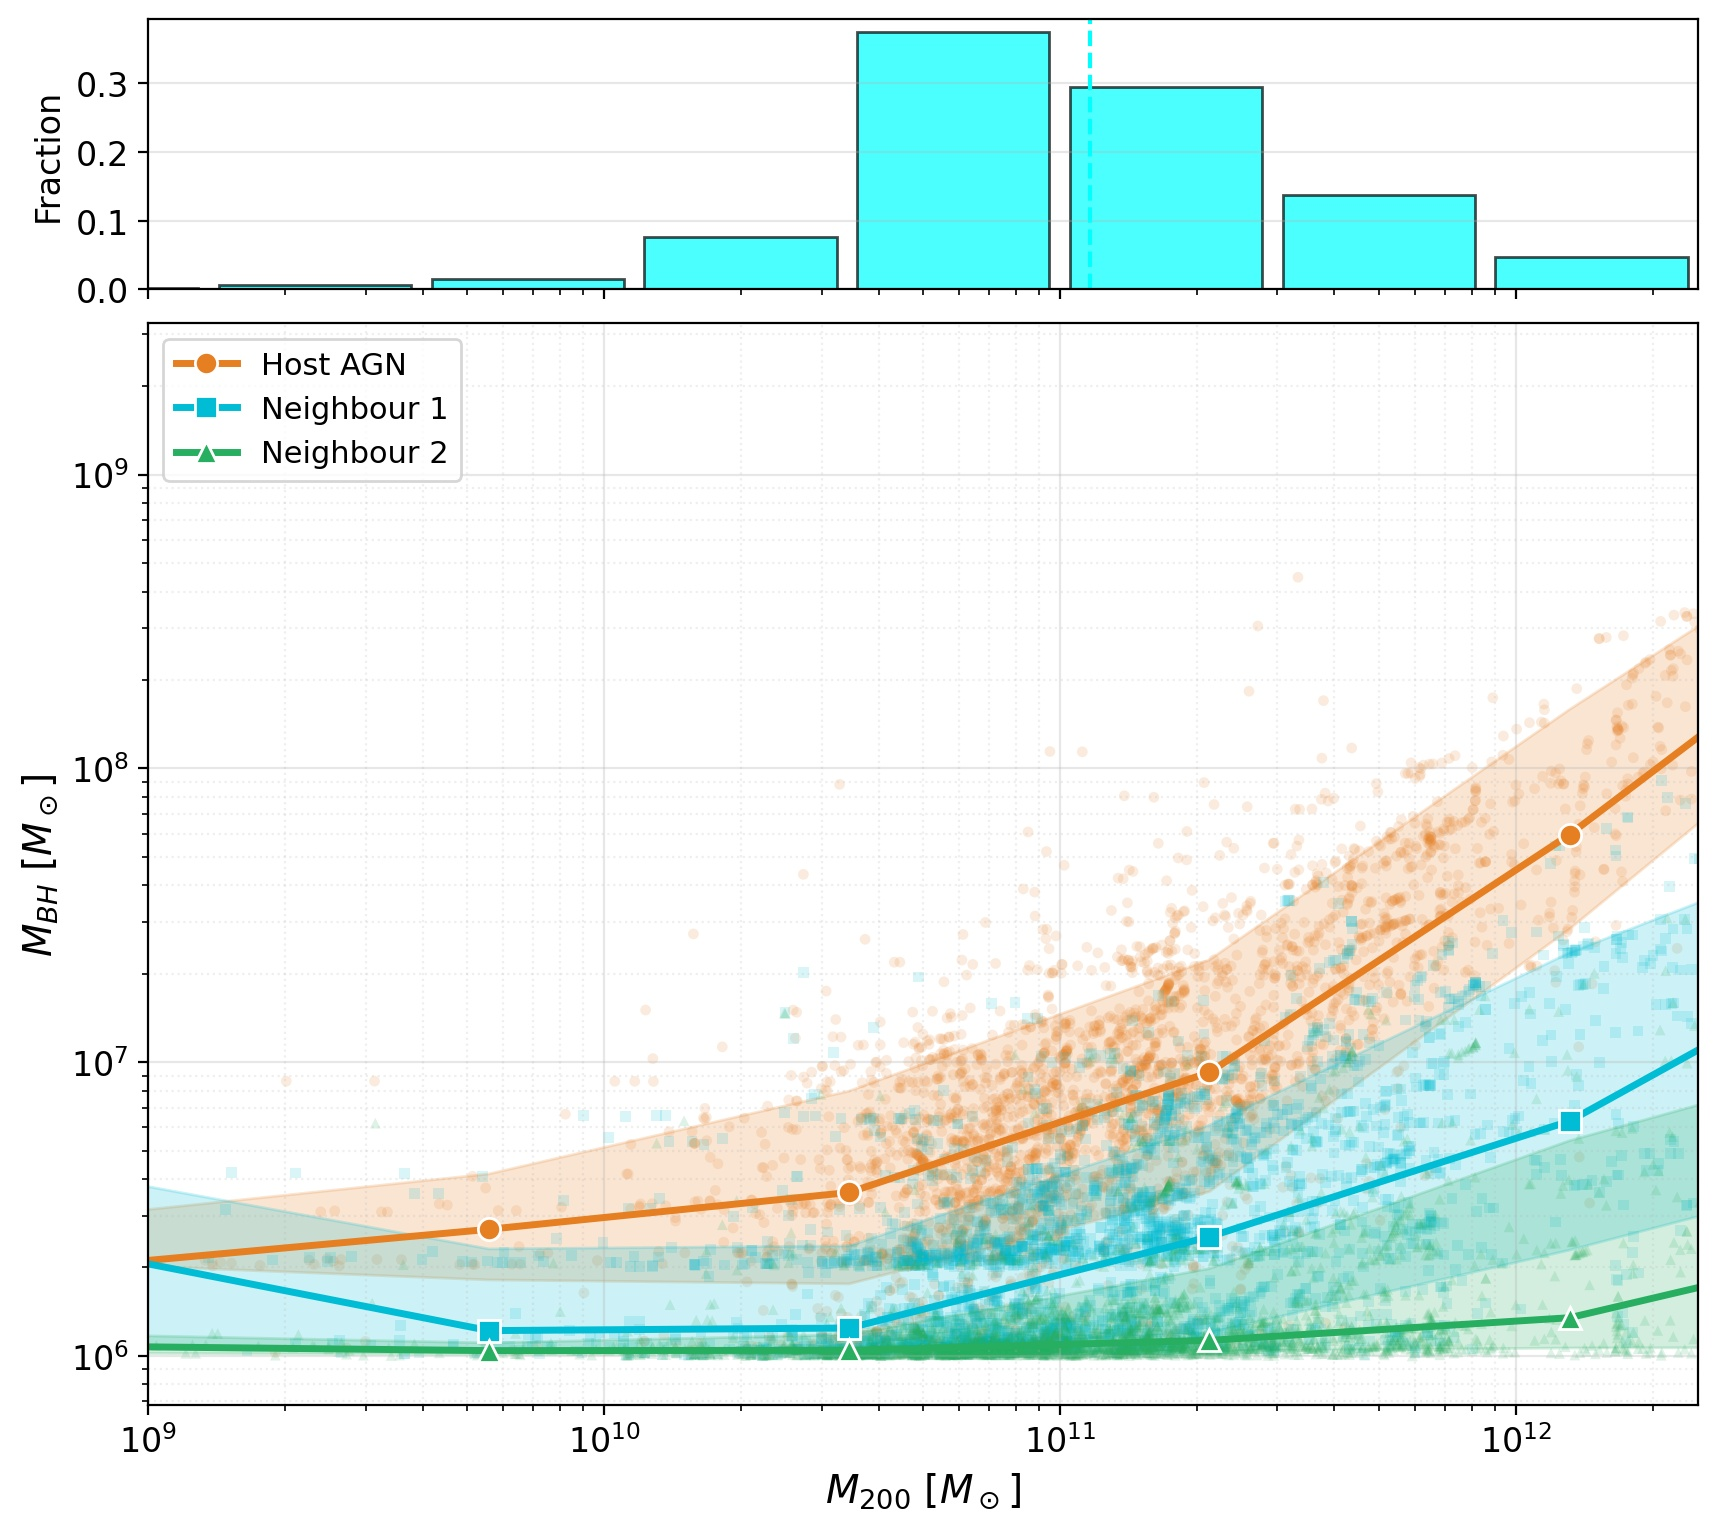
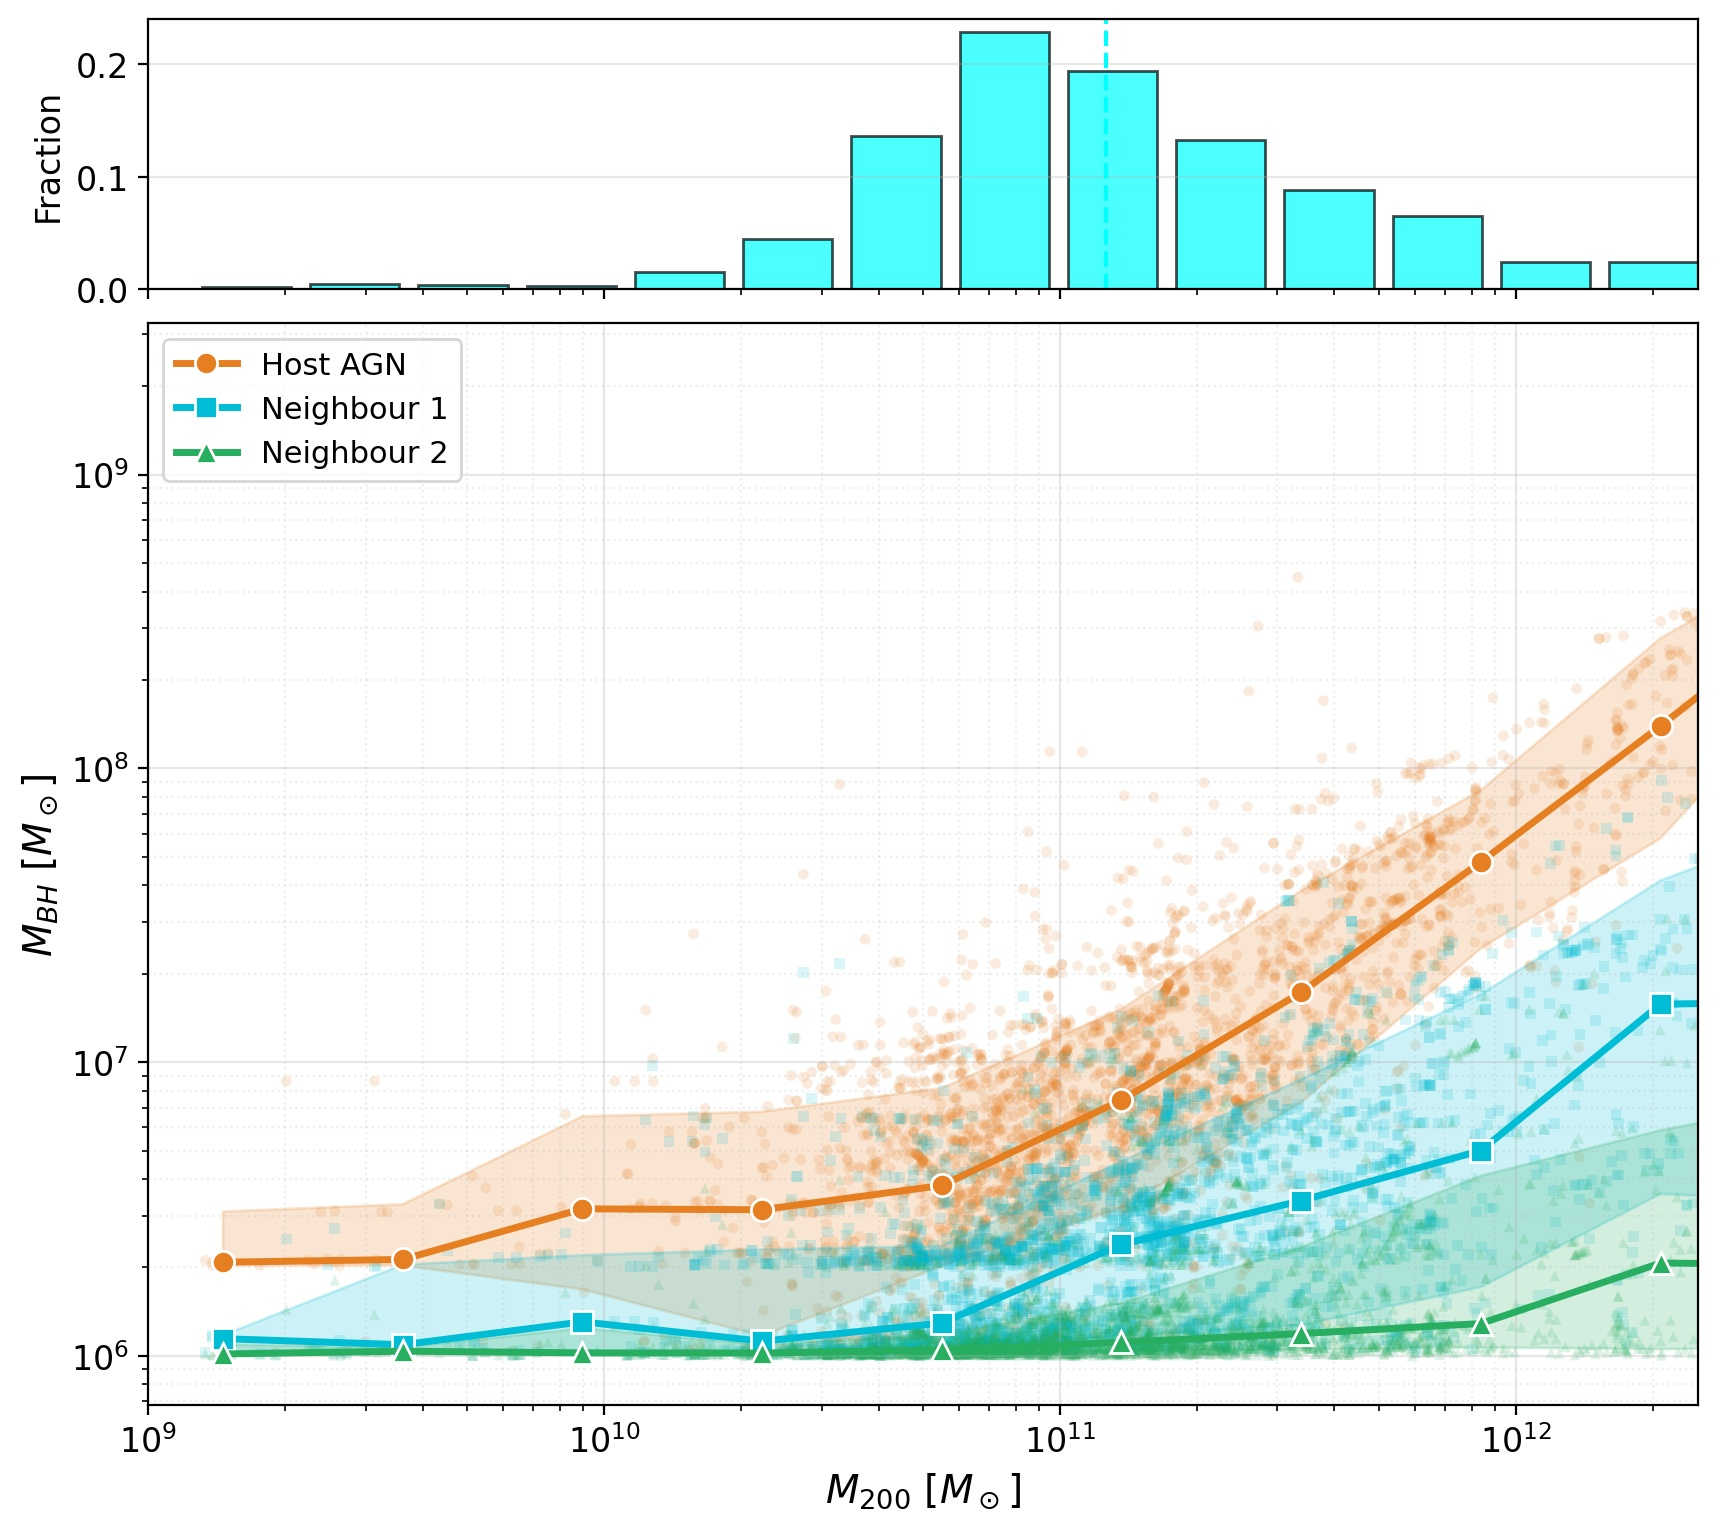
update

diff --git a/main.tex b/main.tex
@@ -425,7 +425,7 @@ Taken together, the halo mass and redshift dependency shown in Figure~\ref{fig:s
 \subsection{Black Hole Masses and Host Halo Properties}
 \label{subsec:bhmass_halo}
  
-Figure~\ref{fig:bhmass_halo} shows the SMBH mass $M_\mathrm{BH}$ as a function of host halo virial mass $M_{200}$ for all three members of identified triple AGN systems, accumulated across all redshifts from $z = 0$ to $z = 3$. Each data point represents a single AGN detection in a single snapshot, colour-coded by membership role. Host (orange circles), N1 (cyan squares), and N2 (green triangles). Solid lines show the median $M_\mathrm{BH}$ in bins of $M_{200}$ for each population, and the shaded regions enclose the 16th--84th percentile scatter. The top panel shows the distribution of host halo masses across all identified triple AGN system-snapshot instances.
+Figure~\ref{fig:bhmass_halo} shows the SMBH mass $M_\mathrm{BH}$ of all three members of identified triple AGN systems as a function of the virial mass $M_{200}$ of the halo containing the Host, accumulated across all redshifts from $z = 0$ to $z = 3$. All three members of a system are therefore placed at the same halo mass, so that the figure compares the SMBHs that share a given host environment. Each data point represents a single AGN detection in a single snapshot, colour-coded by membership role: Host (orange circles), N1 (cyan squares), and N2 (green triangles). Solid lines show the median $M_\mathrm{BH}$ of each population in 11 equal bins of $\log M_{200}$, plotted where a bin contains at least five systems, and the shaded regions enclose the 16th--84th percentile scatter. The top panel shows the distribution of Host halo masses across all triple AGN system-snapshot instances. The 52 instances (1.6\%) whose Host has no well-defined $M_{200}$, comprising the 48 Hosts in stripped subhalos (Section~\ref{subsec:halos}) and 4 with no associated halo, are omitted.
  
 \subsubsection{Strong SMBH Mass Asymmetry Between Host and Neighbours}
 \label{subsubsec:mass_asymmetry}
@@ -451,7 +451,7 @@ This halo mass preference is broadly consistent with results from the dual AGN a
 \begin{figure}
     \centering
     \includegraphics[width=\columnwidth]{figure10_bh_halo_mass.jpeg}
-    \caption{SMBH mass $M_\mathrm{BH}$ as a function of host halo virial mass $M_{200}$ for all three members of identified triple AGN systems in Romulus25, accumulated across all redshifts $0 \leq z \leq 3$. Each point represents a single AGN in a single snapshot, colour-coded by membership role. Host (orange circles), Neighbour~1 (cyan squares), and Neighbour~2 (green triangles). Solid lines show the median $M_\mathrm{BH}$ in bins of $M_{200}$ for each population, and shaded regions enclose the 16th--84th percentile scatter. The top panel shows the halo mass distribution of all triple AGN system-snapshot instances. The Host SMBHs are systematically and substantially more massive than N1 and N2 across the full halo mass range, with the median Host mass exceeding the neighbour masses by a factor of a few in halos below $10^{11.5}\,M_\odot$ and by up to one to two orders of magnitude above $10^{12}\,M_\odot$. N1 and N2 remain close to or just above the SMBH seed mass of $10^6\,M_\odot$ in many cases. The halo mass distribution peaks at $\log(M_{200}/M_\odot) \approx 10.5$--$11.0$.}
+    \caption{SMBH mass $M_\mathrm{BH}$ of all three members of identified triple AGN systems in Romulus25 as a function of the virial mass $M_{200}$ of the Host's halo, accumulated across all redshifts $0 \leq z \leq 3$. All three members of a system are plotted at the same $M_{200}$. Each point represents a single AGN in a single snapshot, colour-coded by membership role: Host (orange circles), Neighbour~1 (cyan squares), and Neighbour~2 (green triangles). Solid lines show the median $M_\mathrm{BH}$ in bins of $M_{200}$ for each population, and shaded regions enclose the 16th--84th percentile scatter. The top panel shows the distribution of Host halo masses for all triple AGN system-snapshot instances, with the median marked by the dashed line. Instances whose Host has no well-defined $M_{200}$ (1.6\%) are omitted, and the 3\% of instances with $M_{200} > 10^{12.4}\,M_\odot$ lie beyond the plotted range. The Host SMBHs are systematically and substantially more massive than N1 and N2 across the full halo mass range, with the median Host mass exceeding the neighbour masses by a factor of a few in halos below $10^{11.5}\,M_\odot$ and by up to one to two orders of magnitude above $10^{12}\,M_\odot$. N1 and N2 remain close to or just above the SMBH seed mass of $10^6\,M_\odot$ in many cases. The halo mass distribution peaks at $\log(M_{200}/M_\odot) \approx 10.5$--$11.0$.}
     \label{fig:bhmass_halo}
 \end{figure}
 
